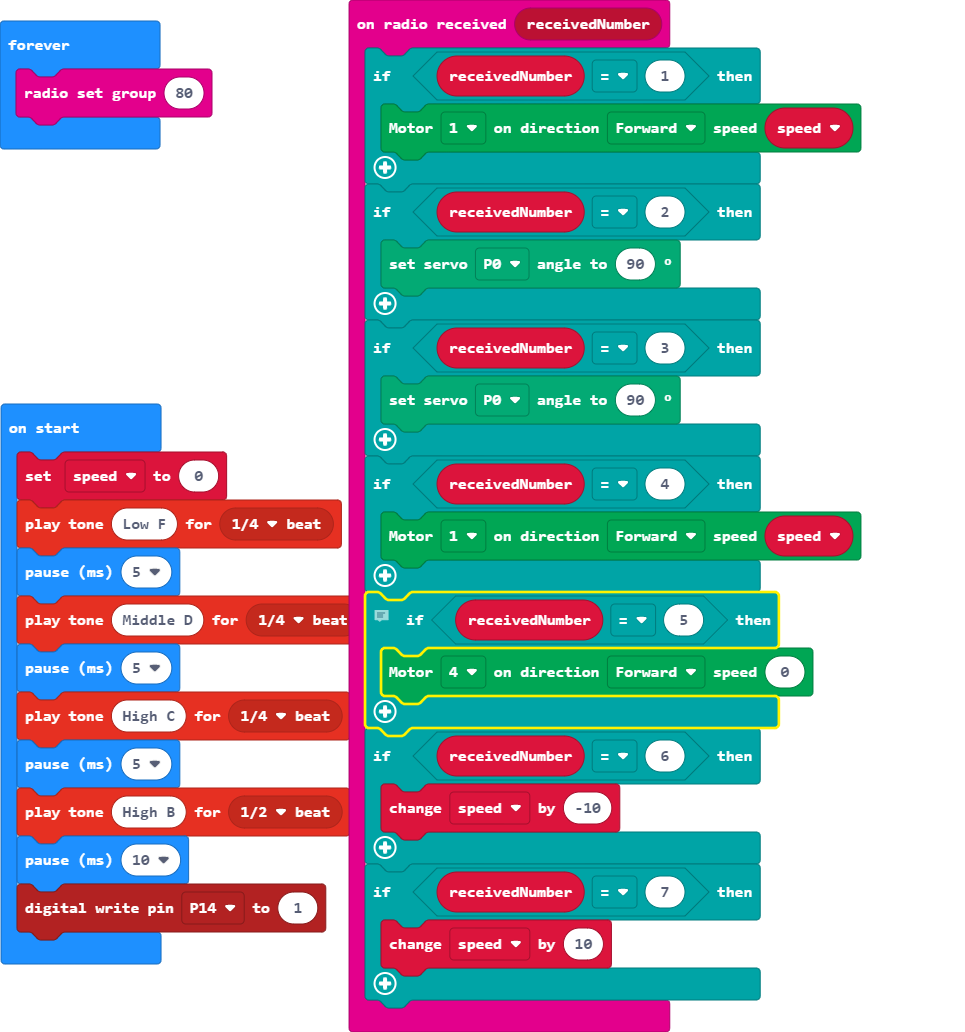
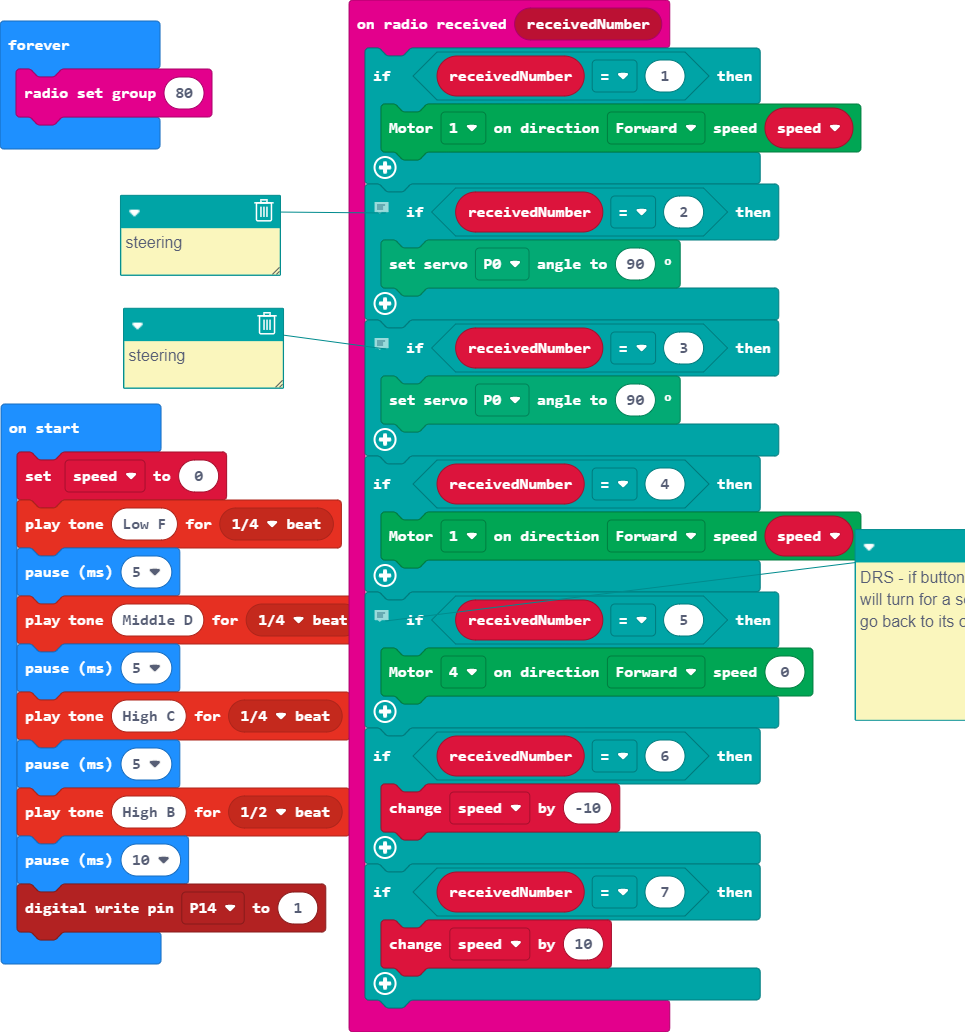
Update main.blocks, main.ts

diff --git a/main.ts b/main.ts
@@ -2,9 +2,11 @@ radio.onReceivedNumber(function (receivedNumber) {
     if (receivedNumber == 1) {
         Kitronik_Robotics_Board.motorOn(Kitronik_Robotics_Board.Motors.Motor1, Kitronik_Robotics_Board.MotorDirection.Forward, speed)
     }
+    // steering
     if (receivedNumber == 2) {
         servos.P0.setAngle(90)
     }
+    // steering
     if (receivedNumber == 3) {
         servos.P0.setAngle(90)
     }
